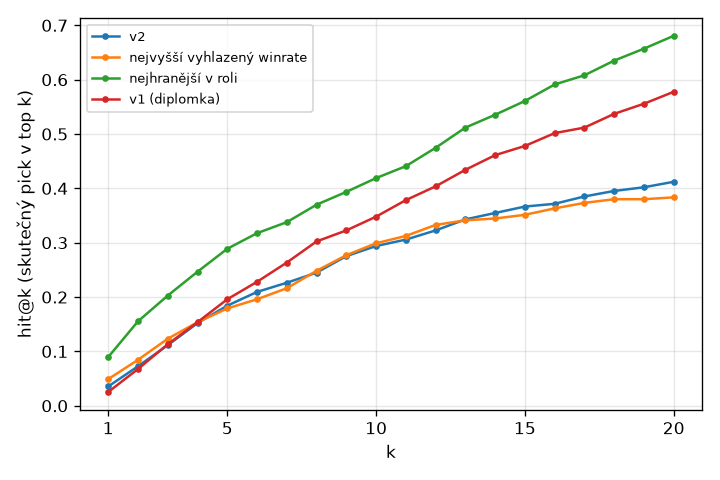
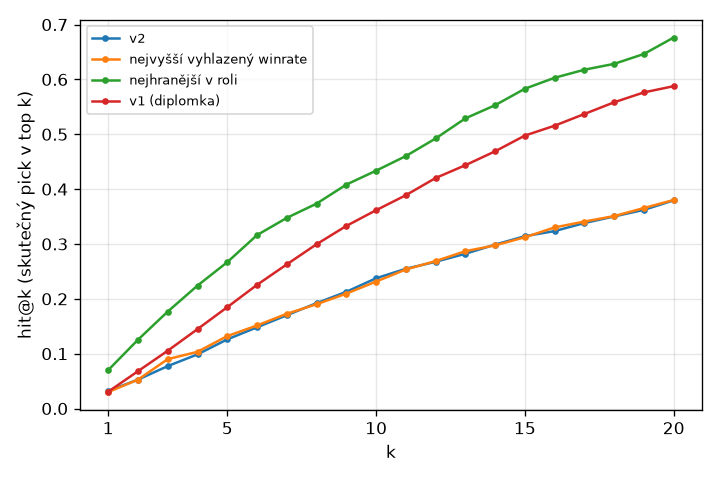
Rerun backtest on 3029 matches and document the noise finding
With 1530 training and 1499 test matches the backtest does not improve
(AUC 0.53 -> 0.51). Champion win rates do not replicate even between two
random halves of one patch, so with tens of games per champion the
strength estimate is mostly noise rather than a meta shift.

diff --git a/docs/vysledky.md b/docs/vysledky.md
@@ -1,42 +1,42 @@
 # Výsledky backtestu modelu v2
 
-Vygenerováno 2026-10-25 09:16 UTC příkazem `python -m model.backtest`.
-Agregace jen z patche **16.20** (456 zápasů), test na patchi **16.21** (592 zápasů). Testovací zápasy do agregací nevstoupily (kontrola v kódu i v testu).
+Vygenerováno 2026-10-25 12:37 UTC příkazem `python -m model.backtest`.
+Agregace jen z patche **16.20** (1530 zápasů), test na patchi **16.21** (1499 zápasů). Testovací zápasy do agregací nevstoupily (kontrola v kódu i v testu).
 Testuje se jen draftová část modelu (A, B, C, S, F); osobní kritéria D a E a baseline „nejvyšší mastery“ ne, protože databáze nemá historii hráčů a dnešní mastery by do testu pustilo budoucnost.
 
 ## Shrnutí
 
-- **Predikce výhry:** od konstanty se neliší průkazně (AUC 0.529, interval zlepšení log-loss obsahuje nulu).
-- **Shoda s picky hráčů proti „nejvyšší vyhlazený winrate“:** rozdíl není průkazný (hit@5 v2 minus baseline +0.5 pb).
-- **Shoda s picky hráčů proti „nejhranější v roli“:** v2 je průkazně horší (hit@5 v2 minus baseline -10.5 pb).
-- **Shoda s picky hráčů proti „v1 (diplomka)“:** rozdíl není průkazný (hit@5 v2 minus baseline -1.2 pb).
-- **Kvalita doporučení:** #1 od v2 byl na novém patchi zhruba stejně silný (rozdíl není průkazný) jako skutečný pick (+0.02 pb).
+- **Predikce výhry:** od konstanty se neliší průkazně (AUC 0.508, interval zlepšení log-loss obsahuje nulu).
+- **Shoda s picky hráčů proti „nejvyšší vyhlazený winrate“:** rozdíl není průkazný (hit@5 v2 minus baseline -0.6 pb).
+- **Shoda s picky hráčů proti „nejhranější v roli“:** v2 je průkazně horší (hit@5 v2 minus baseline -14.1 pb).
+- **Shoda s picky hráčů proti „v1 (diplomka)“:** v2 je průkazně horší (hit@5 v2 minus baseline -5.9 pb).
+- **Kvalita doporučení:** #1 od v2 byl na novém patchi průkazně silnější než skutečný pick (+0.15 pb).
 
 ## 1. Predikce výhry z draftu
 
 | Model | log-loss | Brier | AUC | přesnost |
 | --- | --- | --- | --- | --- |
-| konstanta (winrate modré strany) | 0.6926 | 0.2497 | 0.500 | 52.0% |
-| v2: jen A (síla hrdiny) | 0.6928 | 0.2498 | 0.506 | 50.7% |
-| v2: A+B+C (bez fitování) | 0.6916 | 0.2492 | 0.529 | 53.9% |
-| v2: logistická regrese na A, B, C (cross-fit) | 0.6945 | 0.2507 | 0.472 | 47.3% |
+| konstanta (winrate modré strany) | 0.6924 | 0.2496 | 0.500 | 52.0% |
+| v2: jen A (síla hrdiny) | 0.6972 | 0.2520 | 0.490 | 49.3% |
+| v2: A+B+C (bez fitování) | 0.6958 | 0.2513 | 0.508 | 50.8% |
+| v2: logistická regrese na A, B, C (cross-fit) | 0.6924 | 0.2496 | 0.512 | 52.0% |
 
 Nižší log-loss a Brier jsou lepší, AUC 0,5 je náhoda. Plán čeká přesnost jen 52 až 60 %.
-Zlepšení log-loss A+B+C proti konstantě: +0.0010 (90% interval -0.0022 až +0.0042); kladné = v2 je lepší.
-Regrese je cross-fit: agregace z poloviny tréninkových zápasů, koeficienty fitované na druhé polovině. Koeficienty: A -0.22, B -0.12, C 0.00, intercept -0.000 (koeficient 1 = kritérium je škálované přesně).
+Zlepšení log-loss A+B+C proti konstantě: -0.0034 (90% interval -0.0075 až +0.0006); kladné = v2 je lepší.
+Regrese je cross-fit: agregace z poloviny tréninkových zápasů, koeficienty fitované na druhé polovině. Koeficienty: A -0.36, B 0.10, C -0.24, intercept -0.113 (koeficient 1 = kritérium je škálované přesně).
 
 ![Kalibrace](img/kalibrace.png)
 
 ## 2. Doporučení: byl skutečný pick mezi doporučenými?
 
-592 draftů z testovacích zápasů: jeden hráč, náhodná část spoluhráčů, 0, 2 nebo 5 známých nepřátel, skutečné bany.
+1499 draftů z testovacích zápasů: jeden hráč, náhodná část spoluhráčů, 0, 2 nebo 5 známých nepřátel, skutečné bany.
 
 | Metoda | pokrytí | hit@1 | hit@5 | hit@10 | MRR | síla #1 na novém patchi | síla top 5 |
 | --- | --- | --- | --- | --- | --- | --- | --- |
-| v2 | 96.6% | 3.5% | 18.4% | 29.4% | 0.119 | +0.08 pb | +0.21 pb |
-| nejvyšší vyhlazený winrate | 96.6% | 4.9% | 17.9% | 29.9% | 0.127 | +0.13 pb | +0.22 pb |
-| nejhranější v roli | 96.6% | 9.0% | 28.9% | 41.9% | 0.201 | +0.39 pb | +0.06 pb |
-| v1 (diplomka) | 73.5% | 2.5% | 19.6% | 34.8% | 0.122 | -0.02 pb | +0.07 pb |
+| v2 | 96.7% | 3.2% | 12.6% | 23.7% | 0.100 | +0.11 pb | -0.09 pb |
+| nejvyšší vyhlazený winrate | 96.7% | 3.0% | 13.2% | 23.1% | 0.100 | -0.02 pb | -0.01 pb |
+| nejhranější v roli | 96.7% | 7.0% | 26.7% | 43.4% | 0.184 | -0.42 pb | -0.04 pb |
+| v1 (diplomka) | 74.5% | 3.1% | 18.5% | 36.2% | 0.125 | +0.12 pb | -0.01 pb |
 
 - **Pokrytí:** skutečný pick je mezi kandidáty metody (v2 a obě baseline mají stejný pool: hrdinové s aspoň 5 % her v roli na tréninkovém patchi; v1 má vlastní seznam rolí).
 - **hit@k** měří shodu s tím, co hráči opravdu vybrali, ne optimalitu (survivorship bias).
@@ -44,16 +44,16 @@ Regrese je cross-fit: agregace z poloviny tréninkových zápasů, koeficienty f
 
 Rozdíly hit@5 proti v2 (párově na stejných draftech, bootstrap):
 
-- v2 − nejvyšší vyhlazený winrate: +0.5 pb (90% interval -1.0 až +2.2 pb)
-- v2 − nejhranější v roli: -10.5 pb (90% interval -14.2 až -7.1 pb)
-- v2 − v1 (diplomka): -1.2 pb (90% interval -4.7 až +2.4 pb)
+- v2 − nejvyšší vyhlazený winrate: -0.6 pb (90% interval -1.5 až +0.3 pb)
+- v2 − nejhranější v roli: -14.1 pb (90% interval -16.3 až -11.9 pb)
+- v2 − v1 (diplomka): -5.9 pb (90% interval -8.0 až -3.7 pb)
 
 Síla #1 na novém patchi minus síla skutečného picku:
 
-- v2: +0.02 pb (90% interval -0.10 až +0.13 pb)
-- nejvyšší vyhlazený winrate: +0.06 pb (90% interval -0.04 až +0.15 pb)
-- nejhranější v roli: +0.32 pb (90% interval +0.20 až +0.46 pb)
-- v1 (diplomka): -0.08 pb (90% interval -0.21 až +0.03 pb)
+- v2: +0.15 pb (90% interval +0.01 až +0.29 pb)
+- nejvyšší vyhlazený winrate: +0.02 pb (90% interval -0.10 až +0.14 pb)
+- nejhranější v roli: -0.38 pb (90% interval -0.46 až -0.30 pb)
+- v1 (diplomka): +0.16 pb (90% interval +0.05 až +0.27 pb)
 
 ![hit@k](img/hit-at-k.png)
 
@@ -61,17 +61,17 @@ hit@5 podle počtu známých nepřátel:
 
 | Metoda | 0 nepřátel | 2 nepřátel | 5 nepřátel |
 | --- | --- | --- | --- |
-| v2 | 14.6% | 21.8% | 18.8% |
-| nejvyšší vyhlazený winrate | 13.1% | 22.3% | 18.3% |
-| nejhranější v roli | 24.2% | 32.5% | 29.9% |
-| v1 (diplomka) | 22.2% | 16.8% | 19.8% |
+| v2 | 12.0% | 12.4% | 13.4% |
+| nejvyšší vyhlazený winrate | 12.8% | 12.2% | 14.6% |
+| nejhranější v roli | 27.8% | 28.4% | 23.8% |
+| v1 (diplomka) | 21.4% | 17.2% | 16.8% |
 
-Winrate hráčů, jejichž pick byl v top 5 v2: 47.7% (109 draftů), ostatní: 52.4% (483). Je to korelace, ne kauzální efekt.
+Winrate hráčů, jejichž pick byl v top 5 v2: 49.7% (189 draftů), ostatní: 48.5% (1310). Je to korelace, ne kauzální efekt.
 
 ## 3. Citlivost
 
-**Nejistota vah (SMAA, 100 draftů):** hrdina z top 5 v ní zůstal průměrně v 94.8% simulací, 89.6% doporučení má stabilitu aspoň 80 %.
-**Kontrolní metody:** průměrné Spearmanovo ρ s TOPSIS: PROMETHEE II 0.82, VIKOR 0.96.
+**Nejistota vah (SMAA, 100 draftů):** hrdina z top 5 v ní zůstal průměrně v 97.9% simulací, 95.4% doporučení má stabilitu aspoň 80 %.
+**Kontrolní metody:** průměrné Spearmanovo ρ s TOPSIS: PROMETHEE II 0.94, VIKOR 0.99.
 
 ![SMAA](img/smaa-stabilita.png)
 
@@ -79,17 +79,17 @@ Winrate hráčů, jejichž pick byl v top 5 v2: 47.7% (109 draftů), ostatní: 5
 
 | Varianta | váhy W / E / F | CR | průměrná shoda top 5 | stejná #1 | hit@5 |
 | --- | --- | --- | --- | --- | --- |
-| výchozí AHP (7:1, 6:1) | 0.76 / 0.11 / 0.12 | 0.002 | 5.0 z 5 | 100.0% | 18.4% |
-| W slabší (3:1) | 0.60 / 0.20 / 0.20 | 0.000 | 4.1 z 5 | 73.5% | 15.9% |
-| W silnější (9:1) | 0.82 / 0.09 / 0.09 | 0.000 | 4.8 z 5 | 94.4% | 17.9% |
+| výchozí AHP (7:1, 6:1) | 0.76 / 0.11 / 0.12 | 0.002 | 5.0 z 5 | 100.0% | 12.6% |
+| W slabší (3:1) | 0.60 / 0.20 / 0.20 | 0.000 | 4.5 z 5 | 85.6% | 12.9% |
+| W silnější (9:1) | 0.82 / 0.09 / 0.09 | 0.000 | 4.9 z 5 | 97.7% | 12.9% |
 
 **Síla priorů matchupů a du** (násobek `PRIOR_SD`; 0,5 = víc shrinkage, 2 = méně):
 
 | Násobek | log-loss A+B+C | AUC | hit@5 v2 |
 | --- | --- | --- | --- |
-| 1 | 0.6916 | 0.529 | 18.4% |
-| 0.5 | 0.6925 | 0.514 | 19.3% |
-| 2 | 0.6909 | 0.540 | 15.5% |
+| 1 | 0.6958 | 0.508 | 12.6% |
+| 0.5 | 0.6967 | 0.495 | 13.3% |
+| 2 | 0.7004 | 0.524 | 13.3% |
 
 ## Omezení
 

diff --git a/docs/plan.md b/docs/plan.md
@@ -208,8 +208,14 @@ hrdina s nejvyšší mastery hráče; původní model v1 z diplomky (jen jako sr
 - [x] Backtest 16.20 → 16.21 (docs/vysledky.md): predikce výhry od konstanty neprůkazná
   (AUC 0,53), hit@5 v2 průkazně pod baseline „nejhranější“, proti vyhlazenému winrate a v1
   neprůkazné; cross-fit regrese bez signálu. Hlavní omezení je málo dat.
-- [ ] Víc zápasů (tisíce na patch), aby B a C nebyly jen priory; pak backtest zopakovat
-  (skill `/new-patch`).
+- [x] Víc zápasů: 3029 (16.20: 1530, 16.21: 1499). Backtest se nezlepšil (AUC 0,53 → 0,51,
+  hit@5 v2 18 % → 13 % při větší nabídce kandidátů). Kontrola: korelace winrate hrdiny mezi
+  16.20 a 16.21 je ~0, ale stejně ~0 je i mezi dvěma náhodnými polovinami 16.20. Nejde tedy
+  o změnu mety, ale o šum: při 40–100 hrách je chyba winrate ±5–8 pb, skutečné rozdíly
+  hrdinů 2–3 pb. Spolehlivá síla A potřebuje stovky her na hrdinu a roli (desítky tisíc
+  zápasů na patch), matchupy a dua ještě řádově víc.
+- [ ] Rozhodnout, jestli sbírat dál (Personal API Key, několik dní sběru) nebo přijmout, že
+  prototyp s development key nemá dost dat a jeho hodnota je hlavně v metodice a vysvětlení.
 - [x] D a E vyzkoušené na reálném profilu (Challenger EUNE, 25. 10. 2026): s priorem 10 her dala
   forma po 3 výhrách ze 3 +11 pb a přebila vše ostatní. Prior zvýšen na 50 her a profil bere
   30 posledních her místo 20 (víc by se s development key nevešly tři profily za 2 minuty;

diff --git a/CLAUDE.md b/CLAUDE.md
@@ -119,9 +119,10 @@ Tok dat v kódu (kde co hledat):
   nejvyšší mastery hráče, původní model v1 (jen jako srovnávací funkce).
 - Metriky: log-loss, Brier, AUC, kalibrace; hit@k; stabilita top 5 (SMAA).
 - Očekávaná přesnost predikce z draftu je jen 52 až 60 %.
-- Stav (backtest 16.20 → 16.21): AUC 0,53, od konstanty neprůkazné; hit@5 v2 je průkazně pod
-  baseline „nejhranější“, proti „vyhlazený winrate“ a v1 neprůkazné; cross-fit regrese bez signálu.
-  Příčina je hlavně málo dat (matchupy a dua pod prahem).
+- Stav (backtest 16.20 → 16.21, 1530 + 1499 zápasů): AUC 0,51, od konstanty neprůkazné;
+  hit@5 v2 průkazně pod „nejhranější“ i v1, proti „vyhlazený winrate“ neprůkazné; #1 od v2 je na
+  novém patchi mírně silnější než skutečný pick (+0,15 pb). Síla hrdiny se nereplikuje ani mezi
+  polovinami jednoho patche (korelace ~0): s desítkami her na hrdinu je winrate hlavně šum.
 
 ## Milníky (podrobně v docs/pruvodce.md)
 1. Brainstorm: přečti plán a původní kód (jen čtení), zapiš rozhodnutí
